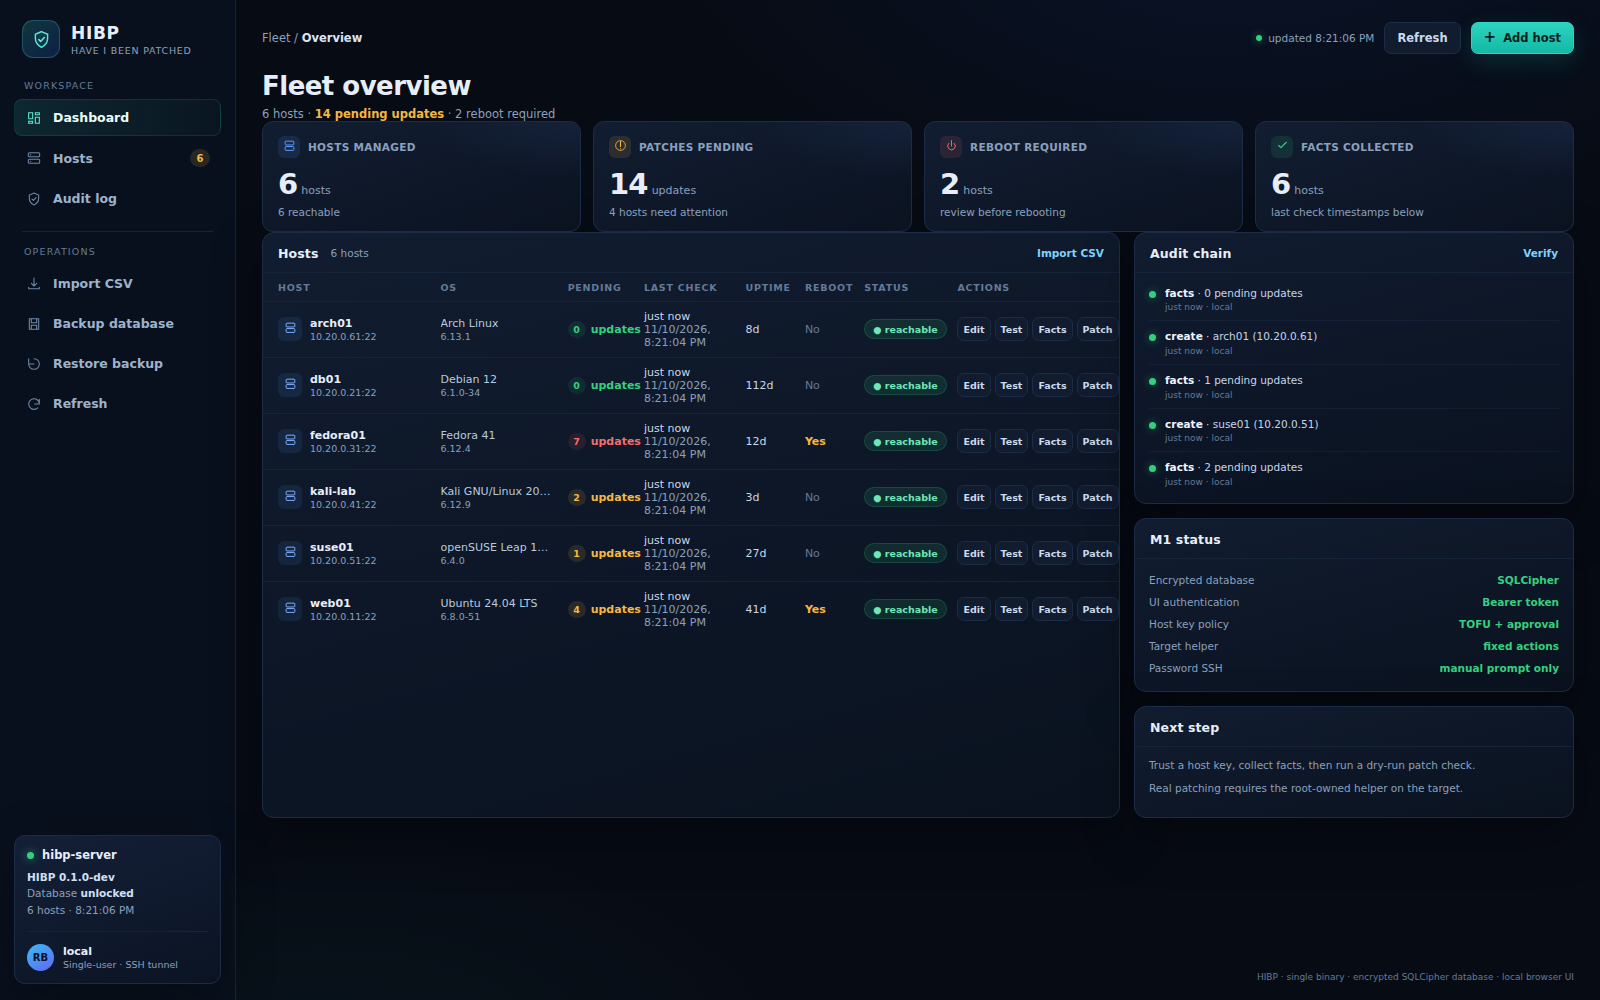
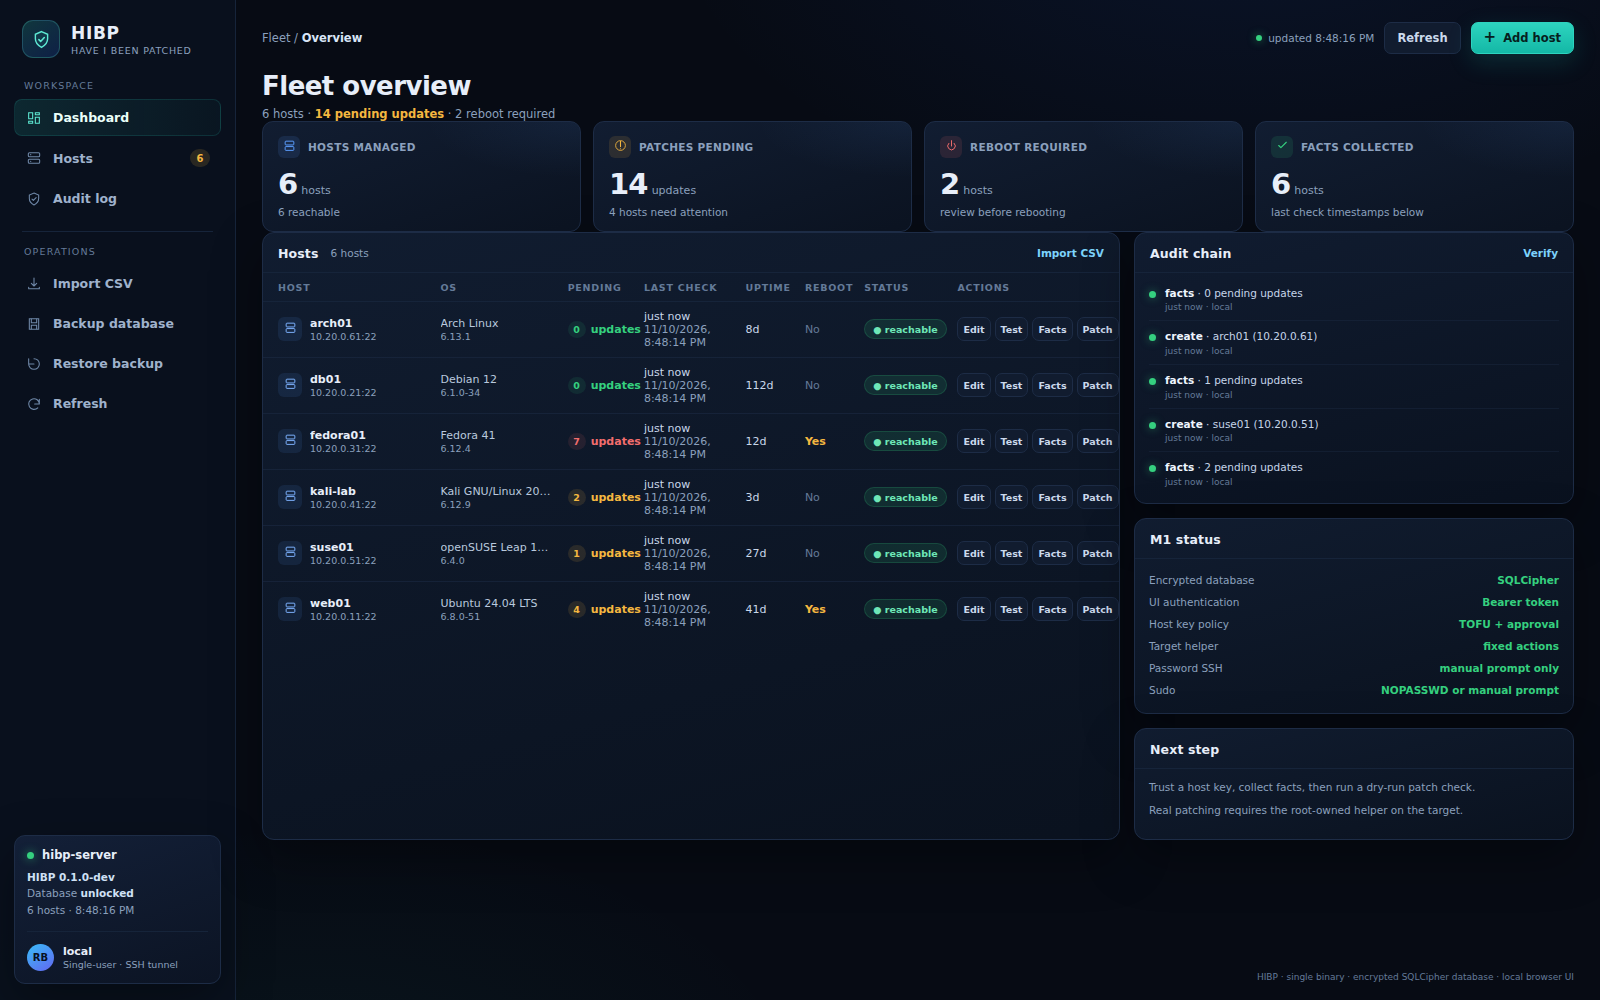
feat: add manual sudo password fallback

Changed region(s): [[0.6875, 0.682, 0.9688, 0.837]]

diff --git a/internal/webui/app.js b/internal/webui/app.js
@@ -7,6 +7,7 @@ const state = {
   status: {},
   view: 'dashboard',
   passwords: new Map(),
+  sudoPasswords: new Map(),
 };
 
 const $ = (id) => document.getElementById(id);
@@ -270,6 +271,32 @@ function passwordFor(host) {
   return value;
 }
 
+function sudoPasswordFor(host) {
+  if (state.sudoPasswords.has(host.id)) return state.sudoPasswords.get(host.id);
+  const value = prompt('sudo password for ' + host.name + ' (not stored; used for this session):');
+  if (value === null) throw new Error('cancelled');
+  state.sudoPasswords.set(host.id, value);
+  return value;
+}
+
+async function requestWithSudo(host, path, payloadFor, options = {}) {
+  const request = (sudoPassword) => api(path, {
+    ...options,
+    body: JSON.stringify(payloadFor(sudoPassword)),
+  });
+  try {
+    return await request('');
+  } catch (error) {
+    if (error.status === 409 && error.data && error.data.code === 'sudo_password_required') {
+      return request(sudoPasswordFor(host));
+    }
+    if (error.status === 400 && error.data && error.data.code === 'sudo_password_invalid') {
+      state.sudoPasswords.delete(host.id);
+    }
+    throw error;
+  }
+}
+
 async function testHost(host) {
   try {
     const password = passwordFor(host);
@@ -318,11 +345,16 @@ async function collectFacts(host) {
   toast('Collecting facts from ' + host.name + '…');
   try {
     const password = passwordFor(host);
-    await api('/api/v1/hosts/' + encodeURIComponent(host.id) + '/facts', { method: 'POST', body: JSON.stringify({ password }) });
+    await requestWithSudo(
+      host,
+      '/api/v1/hosts/' + encodeURIComponent(host.id) + '/facts',
+      (sudoPassword) => ({ password, sudo_password: sudoPassword }),
+      { method: 'POST' },
+    );
     toast('Facts collected from ' + host.name, 'ok');
     await loadAll();
   } catch (error) {
-    toast(error.message, 'error');
+    if (error.message !== 'cancelled') toast(error.message, 'error');
   }
 }
 
@@ -362,14 +394,16 @@ async function patchHost(host, dryRun) {
   toast((dryRun ? 'Checking' : 'Applying updates on') + ' ' + host.name + '…');
   try {
     const password = passwordFor(host);
-    const result = await api('/api/v1/hosts/' + encodeURIComponent(host.id) + '/patch', {
-      method: 'POST',
-      body: JSON.stringify({ dry_run: dryRun, confirm: dryRun ? '' : 'apply', password }),
-    });
+    const result = await requestWithSudo(
+      host,
+      '/api/v1/hosts/' + encodeURIComponent(host.id) + '/patch',
+      (sudoPassword) => ({ dry_run: dryRun, confirm: dryRun ? '' : 'apply', password, sudo_password: sudoPassword }),
+      { method: 'POST' },
+    );
     showOutputModal((dryRun ? 'Patch check' : 'Patch run') + ' — ' + host.name, result);
     await loadAll();
   } catch (error) {
-    toast(error.message, 'error');
+    if (error.message !== 'cancelled') toast(error.message, 'error');
   }
 }
 

diff --git a/internal/webui/index.html b/internal/webui/index.html
@@ -162,6 +162,7 @@
                 <div><span>Host key policy</span><b class="ok">TOFU + approval</b></div>
                 <div><span>Target helper</span><b class="ok">fixed actions</b></div>
                 <div><span>Password SSH</span><b class="ok">manual prompt only</b></div>
+                <div><span>Sudo</span><b class="ok">NOPASSWD or manual prompt</b></div>
               </div>
             </section>
             <section class="card">

diff --git a/internal/server/handlers.go b/internal/server/handlers.go
@@ -20,7 +20,8 @@ import (
 )
 
 type passwordRequest struct {
-	Password string `json:"password"`
+	Password     string `json:"password"`
+	SudoPassword string `json:"sudo_password"`
 }
 
 type hostRequest struct {
@@ -240,6 +241,17 @@ func remoteHostKey(key *store.HostKey) *remote.HostKey {
 }
 
 var errSudoPasswordRequired = errors.New("sudo requires a password on the target; install the restricted NOPASSWD helper rule described in packaging/README.md")
+var errSudoPasswordInvalid = errors.New("sudo password was rejected by the target")
+
+func looksLikeSudoPasswordInvalid(output string) bool {
+	lower := strings.ToLower(output)
+	for _, needle := range []string{"sorry, try again", "incorrect password", "authentication failure"} {
+		if strings.Contains(lower, needle) {
+			return true
+		}
+	}
+	return false
+}
 
 func looksLikeSudoAuthFailure(output string) bool {
 	lower := strings.ToLower(output)
@@ -257,7 +269,7 @@ func looksLikeSudoAuthFailure(output string) bool {
 	return false
 }
 
-func (s *Server) runHelper(ctx context.Context, host store.Host, action, password string, timeout time.Duration) (string, int, error) {
+func (s *Server) runHelper(ctx context.Context, host store.Host, action, sshPassword, sudoPassword string, timeout time.Duration) (string, int, error) {
 	switch action {
 	case "facts", "check", "apply":
 	default:
@@ -271,9 +283,17 @@ func (s *Server) runHelper(ctx context.Context, host store.Host, action, passwor
 		return "", 0, errors.New("host key is not trusted; test and trust the host first")
 	}
 	command := "sudo -n /usr/local/libexec/hibp/hibp-helper " + action
-	output, code, err := remote.Run(ctx, s.hostTarget(host, password), &remote.HostKey{KeyType: key.KeyType, Fingerprint: key.Fingerprint}, command, timeout)
+	input := ""
+	if sudoPassword != "" {
+		command = "sudo -S -p '' /usr/local/libexec/hibp/hibp-helper " + action
+		input = sudoPassword + "\n"
+	}
+	output, code, err := remote.RunWithInput(ctx, s.hostTarget(host, sshPassword), &remote.HostKey{KeyType: key.KeyType, Fingerprint: key.Fingerprint}, command, input, timeout)
 	if err != nil {
 		return output, code, err
+	}
+	if code != 0 && looksLikeSudoPasswordInvalid(output) {
+		return output, code, errSudoPasswordInvalid
 	}
 	if code != 0 && looksLikeSudoAuthFailure(output) {
 		return output, code, errSudoPasswordRequired
@@ -302,7 +322,11 @@ func (s *Server) handleFacts(w http.ResponseWriter, r *http.Request) {
 		}
 		password = request.Password
 	}
-	output, code, err := s.runHelper(r.Context(), host, "facts", password, 2*time.Minute)
+	output, code, err := s.runHelper(r.Context(), host, "facts", password, request.SudoPassword, 2*time.Minute)
+	if errors.Is(err, errSudoPasswordInvalid) {
+		writeJSON(w, http.StatusBadRequest, map[string]any{"error": err.Error(), "code": "sudo_password_invalid"})
+		return
+	}
 	if errors.Is(err, errSudoPasswordRequired) {
 		writeJSON(w, http.StatusConflict, map[string]any{"error": err.Error(), "code": "sudo_password_required"})
 		return
@@ -340,9 +364,10 @@ func (s *Server) handleFacts(w http.ResponseWriter, r *http.Request) {
 }
 
 type patchRequest struct {
-	DryRun   bool   `json:"dry_run"`
-	Confirm  string `json:"confirm"`
-	Password string `json:"password"`
+	DryRun       bool   `json:"dry_run"`
+	Confirm      string `json:"confirm"`
+	Password     string `json:"password"`
+	SudoPassword string `json:"sudo_password"`
 }
 
 func (s *Server) handlePatch(w http.ResponseWriter, r *http.Request) {
@@ -374,7 +399,11 @@ func (s *Server) handlePatch(w http.ResponseWriter, r *http.Request) {
 		action = "apply"
 		timeout = 45 * time.Minute
 	}
-	output, code, err := s.runHelper(r.Context(), host, action, password, timeout)
+	output, code, err := s.runHelper(r.Context(), host, action, password, request.SudoPassword, timeout)
+	if errors.Is(err, errSudoPasswordInvalid) {
+		writeJSON(w, http.StatusBadRequest, map[string]any{"error": err.Error(), "code": "sudo_password_invalid"})
+		return
+	}
 	if errors.Is(err, errSudoPasswordRequired) {
 		writeJSON(w, http.StatusConflict, map[string]any{"error": err.Error(), "code": "sudo_password_required"})
 		return

diff --git a/internal/remote/ssh.go b/internal/remote/ssh.go
@@ -176,6 +176,13 @@ func Test(ctx context.Context, target Target, expected *HostKey) error {
 // Run executes a fixed command over SSH. The command string must not contain
 // user-controlled fragments; callers use it for the fixed helper actions.
 func Run(ctx context.Context, target Target, expected *HostKey, command string, timeout time.Duration) (string, int, error) {
+	return RunWithInput(ctx, target, expected, command, "", timeout)
+}
+
+// RunWithInput executes a fixed command and supplies input on stdin. It is used
+// for sudo -S, so the sudo password never appears in argv, the environment, or
+// the remote command string.
+func RunWithInput(ctx context.Context, target Target, expected *HostKey, command, input string, timeout time.Duration) (string, int, error) {
 	if timeout <= 0 {
 		timeout = 30 * time.Minute
 	}
@@ -193,6 +200,9 @@ func Run(ctx context.Context, target Target, expected *HostKey, command string, 
 		return "", 0, fmt.Errorf("open SSH session: %w", err)
 	}
 	defer session.Close()
+	if input != "" {
+		session.Stdin = strings.NewReader(input)
+	}
 
 	type result struct {
 		output []byte

diff --git a/internal/server/server_test.go b/internal/server/server_test.go
@@ -287,6 +287,21 @@ func TestPasswordAuthRequiresManualPassword(t *testing.T) {
 	}
 }
 
+func TestSudoPasswordInvalidDetection(t *testing.T) {
+	for _, output := range []string{
+		"Sorry, try again.",
+		"sudo: incorrect password",
+		"Authentication failure",
+	} {
+		if !looksLikeSudoPasswordInvalid(output) {
+			t.Fatalf("expected invalid sudo password for %q", output)
+		}
+	}
+	if looksLikeSudoPasswordInvalid("Reading package lists...") {
+		t.Fatal("normal package output must not be classified as invalid sudo password")
+	}
+}
+
 func TestSudoAuthFailureDetection(t *testing.T) {
 	for _, output := range []string{
 		"sudo: interactive authentication is required",

diff --git a/README.md b/README.md
@@ -424,18 +424,35 @@ sudo visudo -cf /etc/sudoers.d/hibp-helper
 A dedicated account such as `hibp` with its own SSH key is preferable: it keeps
 the sudo rule narrow and makes the audit trail clear.
 
+### Manual sudo password fallback
+
+If the target cannot use a `NOPASSWD` rule, the UI can prompt for the sudo
+password for **manual** Facts, Check, and Apply actions.
+
+- The server first tries `sudo -n`.
+- If the target answers `sudo_password_required`, the UI prompts.
+- The retry uses `sudo -S -p ''`; the password is supplied over SSH stdin.
+- It is never written to the database, logs, argv, environment variables, or
+  browser `localStorage`.
+- It is held in browser/server memory for the tab/session. Close the tab or
+  restart the server to clear it.
+- A wrong password is rejected and the cached value is discarded.
+
+This fallback is for interactive use only. **Scheduled patching still requires
+the restricted `NOPASSWD` helper or agent mode.** An unattended schedule cannot
+answer a sudo prompt.
+
 ### If you cannot change sudoers
 
-HIBP will not store or use your sudo password. In that environment you can:
+Use the manual password fallback for interactive work, or:
 
 - install the restricted helper rule as above;
 - use a dedicated account that is allowed to run only the helper;
 - run the helper manually from a root shell;
-- wait for the agent mode, which will run as root under systemd without an SSH
-  login or sudo password.
+- wait for agent mode, which will run as root under systemd without an SSH login
+  or sudo password.
 
 Scheduled patching through HIBP requires passwordless execution of the helper.
-An interactive sudo password cannot be supplied to an unattended schedule.
 
 ### Troubleshooting `sudo: interactive authentication is required`
 
@@ -450,6 +467,9 @@ ls -l /usr/local/libexec/hibp/hibp-helper
 
 The helper must be owned by `root:root`, must not be writable by the SSH
 account, and the sudoers path must match exactly.
+
+With the manual sudo fallback, repeat the action and enter the sudo password
+when prompted. That works for manual Facts/Check/Apply, not for schedules.
 
 ## Why it exists
 
@@ -1164,7 +1184,7 @@ Agent mode is optional and later; v1 uses SSH from the always-on server.
 - `0600` database, sidecar, key, and backup files; wrong-passphrase test.
 - Bearer-token UI authentication, Host/Origin checks, CSP, and security headers.
 - SSH host-key TOFU with explicit fingerprint approval and changed-key failure.
-- Manual SSH password fallback with per-run prompt; no password storage.
+- Manual SSH and sudo password fallbacks with per-run prompts; no password storage.
 - SSH key browser limited to configured directories; it never returns key contents.
 - Fixed helper actions (`facts`, `check`, `apply`, `reboot-check`) with absolute
   binary paths, a sanitized environment, no shell, and output limits.
@@ -1606,7 +1626,7 @@ Implemented:
 - Host add/edit/delete plus CSV/TXT import with preview and duplicate policy.
 - Server-side SSH key browser scoped to configured key directories.
 - SSH key authentication, host-key approval, and connection test.
-- Manual SSH password fallback with per-run prompts; no password storage.
+- Manual SSH and sudo password fallbacks with per-run prompts; no password storage.
 - Fact collection through the fixed helper.
 - Dashboard, host list, audit viewer, backup, and restore to a new path.
 - Audit chain verification and CSV-injection-neutralized export.

diff --git a/SECURITY.md b/SECURITY.md
@@ -54,9 +54,10 @@ Out of scope:
 - The **development** build uses `mutecomm/go-sqlcipher` v4.4.2. Do not deploy
   it. Production artifacts must be built with `make production`, which uses
   current SQLCipher 4.20 and the patched `third_party/go-sqlite3` driver.
-- Password SSH fallback is manual-run only and never stored. Vault-backed
-  scheduled password authentication, RBAC, external audit anchoring,
-  TPM-sealed keys, agent mode, and signed playbooks are not implemented yet.
+- Password SSH and sudo password fallbacks are manual-run only and never
+  stored. Vault-backed scheduled password authentication, RBAC, external audit
+  anchoring, TPM-sealed keys, agent mode, and signed playbooks are not
+  implemented yet.
 - The browser UI token is a bearer secret. Protect the terminal, SSH tunnel, and
   browser profile that hold it.
 
